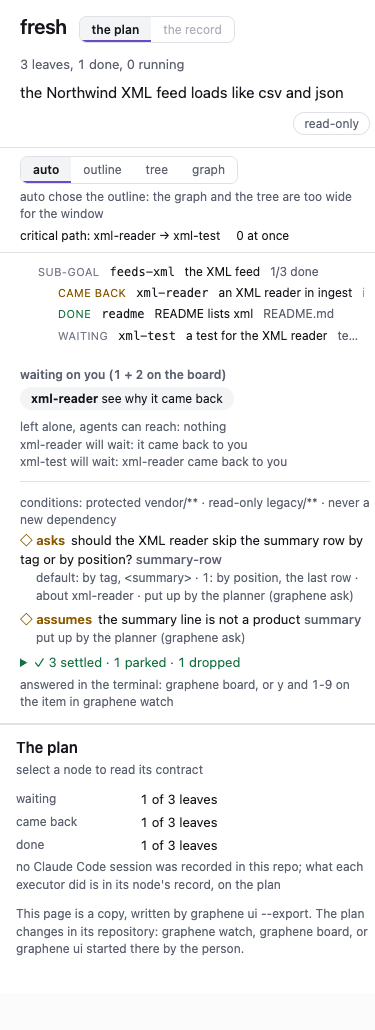
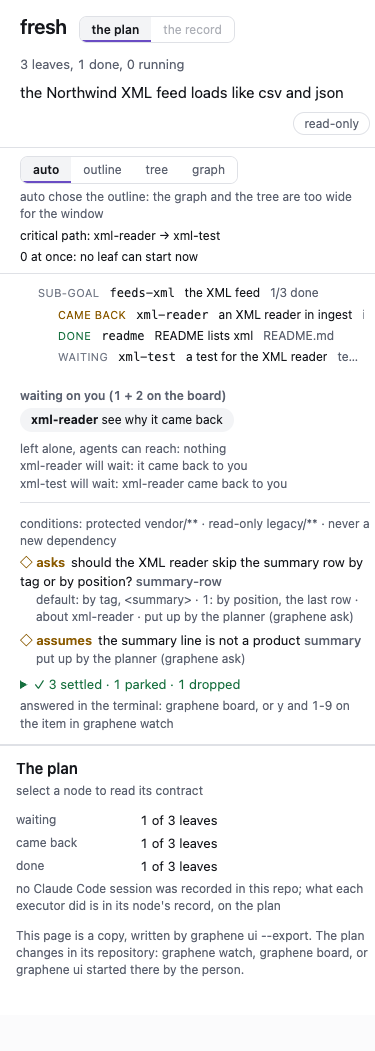
walks.md gets first light's verdicts on the page and the replay: of 25 findings, 11 fixed, 4 fixed with a part closed, 4 fixed on the page with the terminal's part left to WALKS-TUI, 6 closed or handed on with a reason; the after screens show the final build
Each verdict names the commit that fixed it or the reason it is closed. The screens at 1280 and 390 are retaken from the final build (the at-once line). Tests on the branch as committed: pytest tests/test_demo.py tests/test_demo_script.py tests/test_demo_export.py tests/test_talk.py (45 passed).

diff --git a/docs/process/shaping/walks.md b/docs/process/shaping/walks.md
@@ -444,3 +444,39 @@ judge (walker 3)
 - **22:** fixed (7).
 - **23, 24:** left, polish.
 - **25:** the cursor going off screen after the board empties is likely fixed by commit 1 (the cursor now lands on the fold, near the top), but I didn't test that case. The repeated "`done` refused over" line in `node show` is left.
+
+## First light's verdicts: the page and the replay
+
+Lane WALKS-PAGE of the first-light run (branch `fl-walks-page`) took every finding still open whose surface is the page (`graphene ui`, `--export`, `ui/`), the `graphene demo` replay, or a doc wording a walker filed. Each was reproduced first: the page from one fixture repo (`docs/test/make_task.py feeds`, its plan and a board in every state built through the library with a person's caller, a leaf done and one that came back), exported and read in Playwright at 1280 and 390 wide; the replay in a Textual pilot and at 80x24 in tmux. Each fix has a test that failed on the code before it. Nothing live ran. Screens before and after: `screens/first-light/page/`.
+
+25 findings: 11 fixed, 4 fixed with a part closed, 4 fixed on the page with the terminal's part left to lane WALKS-TUI, 2 with nothing to fix on the page (the terminal's part is WALKS-TUI's), 2 not the page's at all (WALKS-TUI's), 2 README wordings proposed to the coordinator, who owns the README.
+
+- **alex 9:** fixed (21e25bc, ad22f52). A stand-in's replay names the stand-in wherever the recording named Nemotron: rows `run:stand-in` and `planner:stand-in`, the record `stand-in, started by graphene run`, the model `stand-in-Nano`. `--once` heads its last rows "the end of the run's log", not "just now". The dates: closed. The top line gives the local day (25 September in New York), and the rows are UTC with a `Z`.
+- **alex 10:** fixed (21e25bc). Each change stays on the screen at least 2 s (the replay takes 22 s, not 3.7). Space pauses and plays on, `.` steps one change, `r` plays it again, and `--speed N` divides the pace. The top line says `paused at 3 of 12`. `graphene demo --once` is unchanged for CI and the wheel smoke test.
+- **alex 11:** fixed (0100c78). The page shows the board (each open item with its kind, default, options, what it is about and who put it up; settled, parked and dropped folded into the terminal's one count, which opens), the standing conditions' one line, and each leaf's `decided:` lines in its detail.
+- **alex 12:** fixed for the order (84611ee): `finished` is stamped once the check has passed, so the record reads `check_passed` then `finished`, in time order. The two `check_failed` rows per attempt are closed: by design, the executor's own `done` runs the check and then the run does, and each row names who ran it.
+- **alex 13:** fixed (0100c78, c131f54). Read-only is said once: a badge, and one sentence on the overview saying where the plan changes. The four disabled rows are gone. The record's reason is in words on the overview, not only in a hover title. A card's second line is its id, so it is not cut. `0 at once` now reads `0 at once: no leaf can start now`.
+- **alex 16:** nothing to fix on the page. The page puts the goal in its own box, and the conditions in the strip above the drawing. The terminal's tree header is WALKS-TUI's.
+- **alex 20:** the page's part fixed (0100c78). The header reads `3 leaves, 1 done, 0 running`, as bare `graphene` does, and the overview counts leaves by state. Watch's `0/0 done` is WALKS-TUI's.
+- **alex 21:** fixed (7d3cb6d). A planner or executor run by an interpreter is named by its script (`planner:planner.py`, `run:executor.py`), on the board, in the log and on the page. The settings line in `?` help, which shows the whole command cut, is first 19 and WALKS-TUI's.
+- **alex 7, the README's part:** proposed to the coordinator. README line 70 still says `? for the rest`. On a node, `?` asks the planner and `? ?` is help (decision 88).
+- **first 5:** fixed (0100c78). The page counts the board apart (`waiting on you (1 + 2 on the board)`) and shows its items. "Left alone, agents can reach" no longer names a leaf that came back, or what waits on it (`plan.forecast` takes the leaves that came back). Read-only is said once.
+- **first 7:** fixed (21e25bc), as alex 9.
+- **first 8:** partly fixed (21e25bc). The pace, the step and `--speed` are fixed. The paragraph that was asked shows before the proposal, and the proposed tree stays on screen. Pruning and the board: closed. The shipped recording (25 September) predates the board, and its scripted planner's tree is accepted whole. A new recording replaces it (`RECORD=$PWD/src/graphene_map/demo.jsonl docs/proof/nemotron.sh`, lane B's or Alex's to make).
+- **first 11, the README's part:** proposed to the coordinator. The README's first 60 lines name `graphene demo` but not `graphene init`.
+- **first 16, 19:** not the page's (the terminal's key line and `?` help at 80x24): WALKS-TUI's.
+- **first 20:** the demo's goal glyph fixed (21e25bc). The goal word was `2/2 done`, which always maps to ○. A finished plan's goal row now reads `✓ … done`, in watch too. The note on the sibling's `check true` is WALKS-TUI's.
+- **first 21:** fixed (21e25bc). `demo --once` fits `$COLUMNS`: its top line keeps the whole pieces that fit (78 characters at 80), and each log row is cut with `…`.
+- **judge 4:** fixed (21e25bc) as alex 10. The opening "Nothing is planned here yet" is replaced by the paragraph. Pruning and the board are closed as in first 8.
+- **judge 5:** fixed. The labels and the fixture's model ids are as alex 9 (21e25bc). The two dollar figures say what each covers (ad22f52). The status line reads `the plan: $0.0019 at list price`, and a leaf's pane `bill $0.0003 at list price for this leaf's 3 calls`.
+- **judge 10:** fixed for the board, the conditions and the record's reason (0100c78). The archived run: closed. The page draws the plan in force, as `graphene` and `watch` do; `plan archive` puts nodes away, and `graphene plan log` keeps their history.
+- **judge 11:** fixed (0100c78, c131f54).
+  - Views: a repository whose view setting is the terminal's `dag` reads "this repo's view setting: the graph (dag in graphene watch)". The terminal's own word is WALKS-TUI's.
+  - Wait lines: a proposal waits on its own acceptance alone, and each line names its leaf once (`x will wait: it is a proposal nobody has accepted`).
+  - At once: it says `, once accepted` when it counts proposals, so it no longer reads against "can reach: nothing".
+  - Cutting: the cards and the tree's goal box (two lines) are no longer cut at 1200px.
+  - The footer sentence is replaced.
+- **judge 17:** the page's part fixed (7d3cb6d, 0100c78). The page says who put an item up in a person's words ("the planner (graphene ask)"), and a script planner is `planner.py`, never `python3`. The owner suffix on watch's board rows is WALKS-TUI's and lane BOARD's.
+- **judge 18:** nothing to fix on the page. The page's fold lists each item as the executors are told it, without the terminal pane's sentence. The pane is WALKS-TUI's.
+- **judge 23:** the page's part fixed (0100c78). The page reads `waiting on you (1 + 2 on the board)` and counts leaves as the shell does. Watch's `you: 1` and `0/0 done` are WALKS-TUI's.
+- **judge 24:** the page's part fixed (0100c78): it names `dag` as the graph. The terminal's views are WALKS-TUI's.
